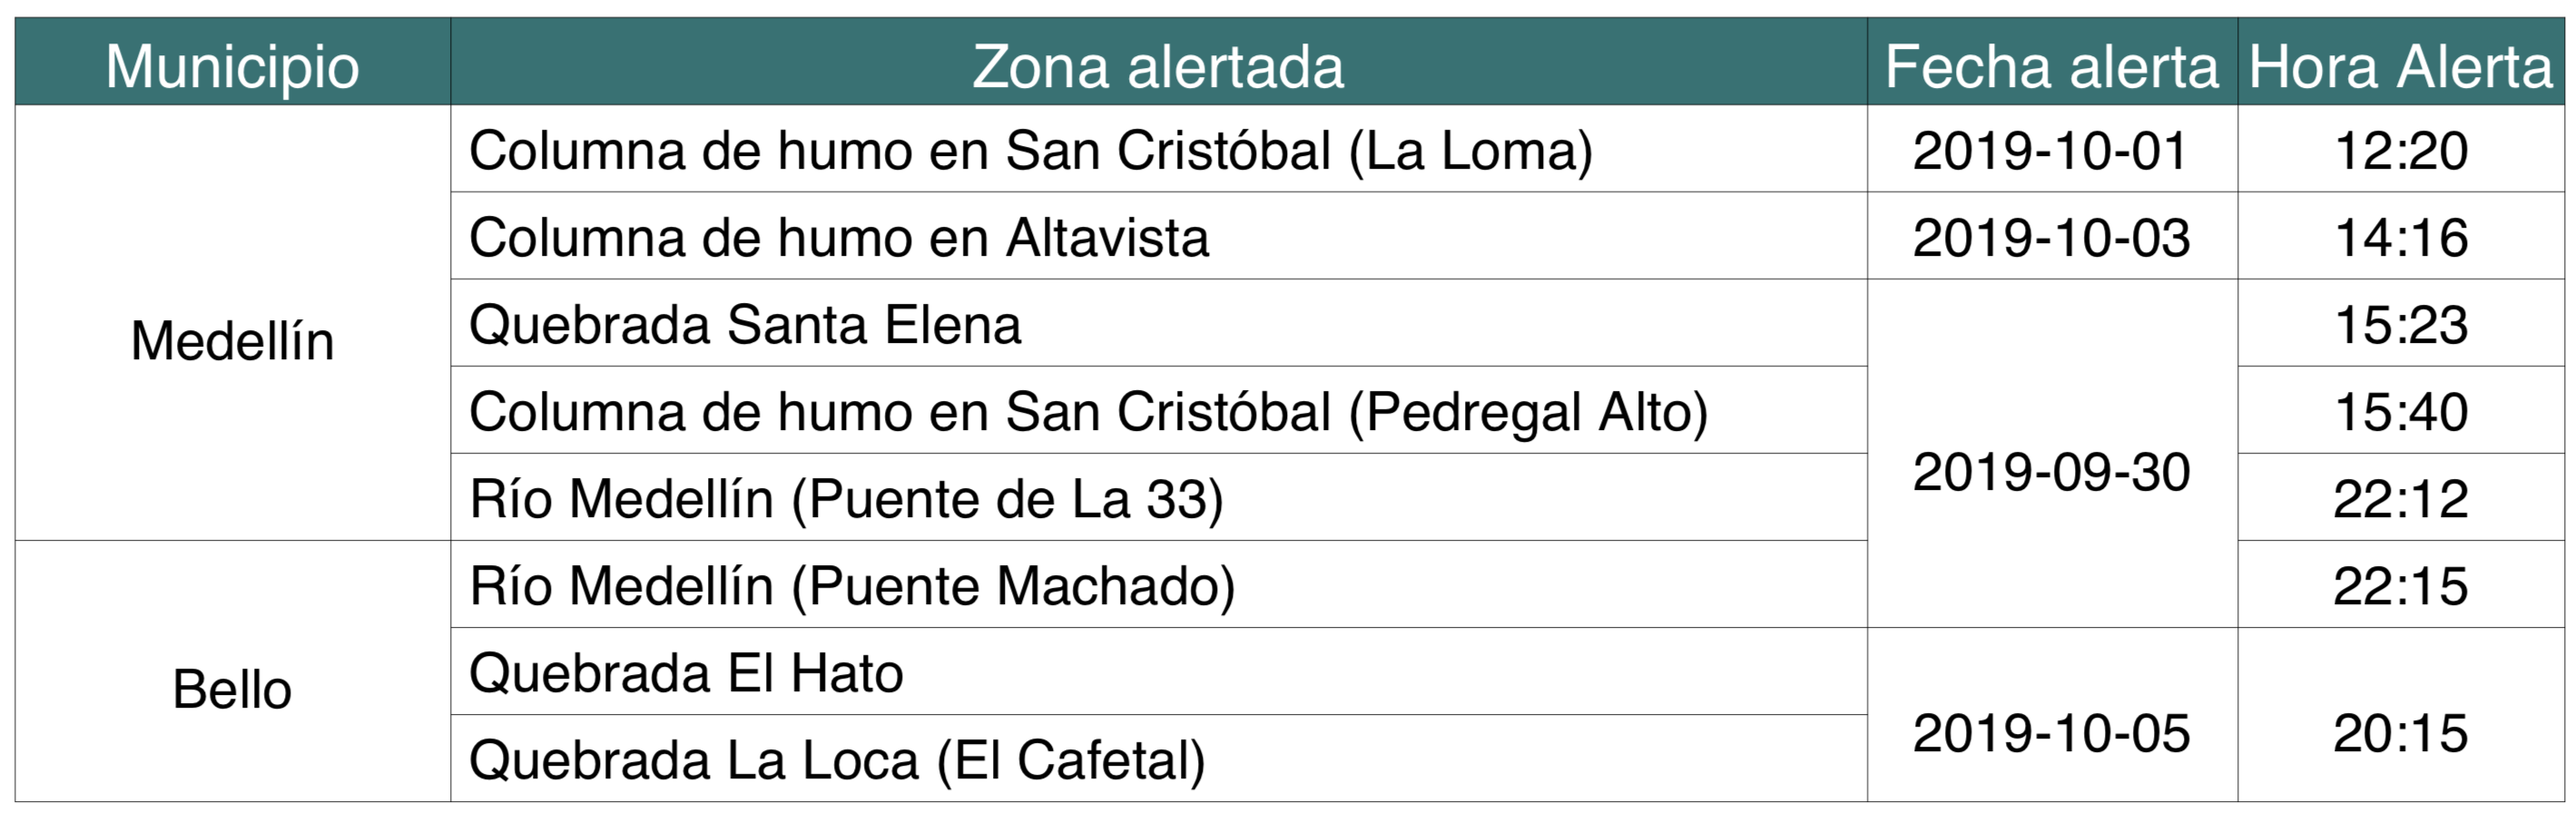
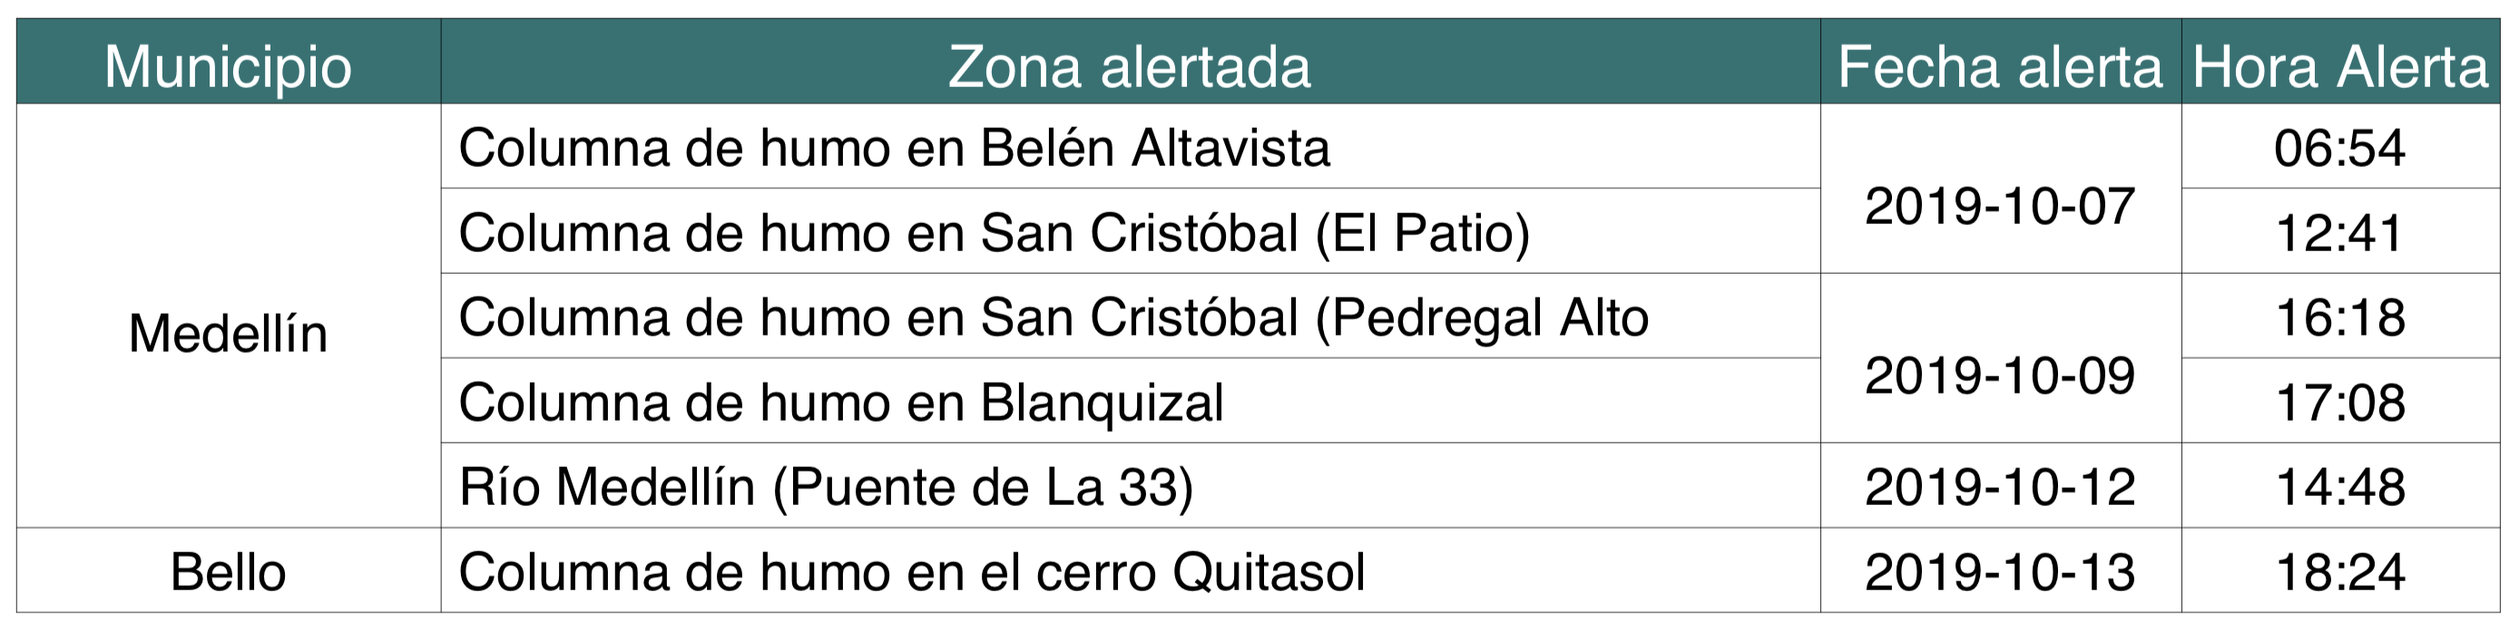
Week October 7th to 14th

diff --git a/Informe/TablaInforme.py b/Informe/TablaInforme.py
@@ -169,17 +169,28 @@ JuanMarica.setFont("Avenir", 24)
 #         [u'Medellín',     u'Quebrada Santa Elena'                               ,'2019-09-25'  , '14:40'       ],
 #         [u'Medellín',     u'Columna de humo en Altavista (Patio-bolas)'         ,'2019-09-27'  , '15:08'       ],
 #        ]
-# # week to September 30th to October 6th
+# # # week to September 30th to October 6th
+# data = [['Municipio',     'Zona alertada'                                       ,'Fecha alerta','Hora Alerta'  ],
+#         [u'Medellín',     u'Columna de humo en San Cristóbal (La Loma)'         ,'2019-10-01'  , '12:20'       ],
+#         [u'Medellín',     u'Columna de humo en Altavista'                       ,'2019-10-03'  , '14:16'       ],
+#         [u'Medellín',     u'Quebrada Santa Elena'                               ,'2019-09-30'  , '15:23'       ],
+#         [u'Medellín',     u'Columna de humo en San Cristóbal (Pedregal Alto)'   ,'2019-09-30'  , '15:40'       ],
+#         [u'Medellín',     u'Río Medellín (Puente de La 33)'                     ,'2019-09-30'  , '22:12'       ],
+#         [u'Bello',        u'Río Medellín (Puente Machado)'                      ,'2019-09-30'  , '22:15'       ],
+#         [u'Bello',        u'Quebrada El Hato'                                   ,'2019-10-05'  , '20:15'       ],
+#         [u'Bello',        u'Quebrada La Loca (El Cafetal)'                      ,'2019-10-05'  , '20:15'       ],
+#        ]
+
+# # week to October 7th to 14th
 data = [['Municipio',     'Zona alertada'                                       ,'Fecha alerta','Hora Alerta'  ],
-        [u'Medellín',     u'Columna de humo en San Cristóbal (La Loma)'         ,'2019-10-01'  , '12:20'       ],
-        [u'Medellín',     u'Columna de humo en Altavista'                       ,'2019-10-03'  , '14:16'       ],
-        [u'Medellín',     u'Quebrada Santa Elena'                               ,'2019-09-30'  , '15:23'       ],
-        [u'Medellín',     u'Columna de humo en San Cristóbal (Pedregal Alto)'   ,'2019-09-30'  , '15:40'       ],
-        [u'Medellín',     u'Río Medellín (Puente de La 33)'                     ,'2019-09-30'  , '22:12'       ],
-        [u'Bello',        u'Río Medellín (Puente Machado)'                      ,'2019-09-30'  , '22:15'       ],
-        [u'Bello',        u'Quebrada El Hato'                                   ,'2019-10-05'  , '20:15'       ],
-        [u'Bello',        u'Quebrada La Loca (El Cafetal)'                      ,'2019-10-05'  , '20:15'       ],
+        [u'Medellín',     u'Columna de humo en Belén Altavista'                 ,'2019-10-07'  , '06:54'       ],
+        [u'Medellín',     u'Columna de humo en San Cristóbal (El Patio)'        ,'2019-10-07'  , '12:41'       ],
+        [u'Medellín',     u'Columna de humo en San Cristóbal (Pedregal Alto'    ,'2019-10-09'  , '16:18'       ],
+        [u'Medellín',     u'Columna de humo en Blanquizal'                      ,'2019-10-09'  , '17:08'       ],
+        [u'Medellín',     u'Río Medellín (Puente de La 33)'                     ,'2019-10-12'  , '14:48'       ],
+        [u'Bello',        u'Columna de humo en el cerro Quitasol'               ,'2019-10-13'  , '18:24'       ],
        ]
+
 
 
 # More width to zone column
@@ -200,19 +211,17 @@ t.setStyle(TableStyle([('INNERGRID', (0,0), (-1,-1), 0.25, colors.black),\
                        # # # Municipio
                        ('SPAN',   (0,1),  (0,5)),\
                        ('VALIGN', (0,1),  (0,5),'MIDDLE'),\
-                       ('SPAN',   (0,6),  (0,8)),\
-                       ('VALIGN', (0,6),  (0,8),'MIDDLE'),\
                        # # # zona
                        # ('SPAN',   (1,1),  (1,4)),\
                        # ('VALIGN', (1,1),  (1,4),'MIDDLE'),\
                        # # # # fecha
-                       ('SPAN',   (2,3), (2,6)),\
-                       ('VALIGN', (2,3), (2,6),'MIDDLE'),\
-                       ('SPAN',   (2,7), (2,8)),\
-                       ('VALIGN', (2,7), (2,8),'MIDDLE'),\
+                       ('SPAN',   (2,1), (2,2)),\
+                       ('VALIGN', (2,1), (2,2),'MIDDLE'),\
+                       ('SPAN',   (2,3), (2,4)),\
+                       ('VALIGN', (2,3), (2,4),'MIDDLE'),\
                        # hora
-                       ('SPAN',   (3,7),(3,8)),\
-                       ('VALIGN', (3,7),(3,8),'MIDDLE'),\
+                       # ('SPAN',   (3,7),(3,8)),\
+                       # ('VALIGN', (3,7),(3,8),'MIDDLE'),\
                         ]))
 
 
